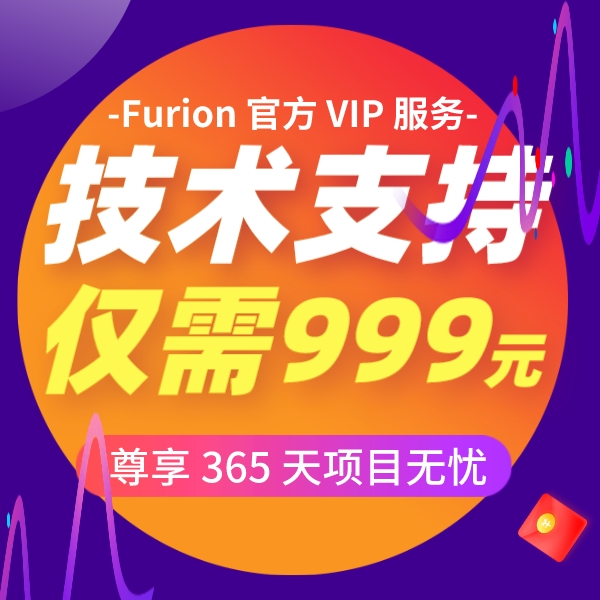
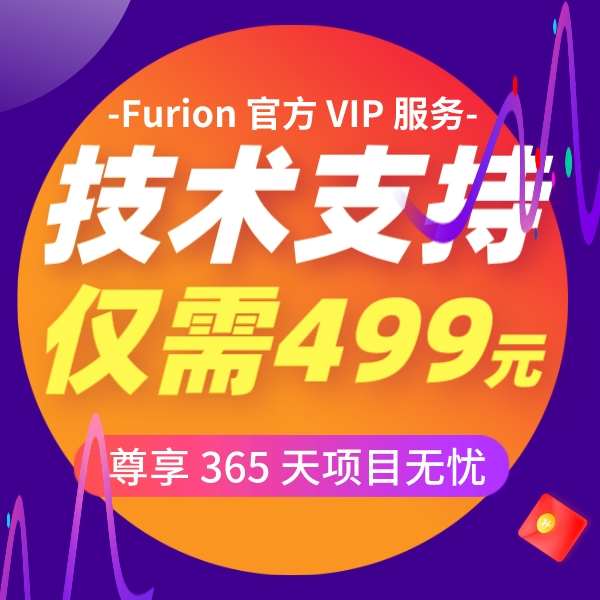
😊 通过 `Jenkins` 发布 `v4.9.1.4` 版本文档

diff --git a/handbook/docusaurus.config.js b/handbook/docusaurus.config.js
@@ -23,7 +23,7 @@ module.exports = {
     announcementBar: {
       id: "vip",
       content:
-        "⭐ 开通 VIP 服务仅需 <s>999 元</s>(<b>限时特价 699 元</b>)，尊享 365 天项目无忧 <a href='/docs/subscribe' style='background-color:rgb(199, 29, 36);color:#ffffff;padding:1px 10px;border-radius:3px;text-decoration:none;display:inline-block;margin:0 5px;font-size:12px;cursor:pointer;'>立即开通</a>⭐",
+        "⭐ 开通 VIP 服务仅需 499 元，尊享 365 天项目无忧 <a href='/docs/subscribe' style='background-color:rgb(199, 29, 36);color:#ffffff;padding:1px 10px;border-radius:3px;text-decoration:none;display:inline-block;margin:0 5px;font-size:12px;cursor:pointer;'>立即开通</a>⭐",
       backgroundColor: "#4623d9",
       textColor: "yellow",
       isCloseable: false,

diff --git a/handbook/src/pages/index.js b/handbook/src/pages/index.js
@@ -133,7 +133,7 @@ function Banner() {
                 title="VIP 服务"
               >
                 VIP 服务
-                <span className="furion-version">999元/年</span>
+                <span className="furion-version">499元/年</span>
               </Link>
             </Tooltip>
           </div>
@@ -227,7 +227,7 @@ function Gitee() {
             className={"furion-log-jiao" + (isDarkTheme ? " dark" : "")}
           ></div>
           <div className="furion-log-number">
-            <div style={{ color: "#1fd898" }}>11,470,422</div>
+            <div style={{ color: "#1fd898" }}>11,472,731</div>
             <span className={isDarkTheme ? " dark" : ""}>Downloads</span>
           </div>
         </div>

diff --git a/handbook/src/theme/DocRoot/Layout/Main/index.js b/handbook/src/theme/DocRoot/Layout/Main/index.js
@@ -72,8 +72,7 @@ function Notice() {
           🚀 Furion v4.9.1.4 版本已发布。
         </Link>
       </div>
-      ⭐ 开通 VIP 服务仅需 <s>999 元</s>(<b>限时特价 699 元</b>)，尊享 365
-      天项目无忧{" "}
+      ⭐ 开通 VIP 服务仅需 499 元，尊享 365 天项目无忧{" "}
       <Link to={useBaseUrl("/docs/subscribe")} className={styles.tip}>
         <Popover
           trigger="hover"

diff --git a/handbook/src/components/FloatBar.js b/handbook/src/components/FloatBar.js
@@ -27,7 +27,7 @@ export default function FloatBar() {
             <div style={{ flex: 1 }}>
               <div className={styles.itemTitle}>⭐ VIP 服务 ⭐</div>
               <div className={styles.itemDesc}>
-                仅需 999 元，尊享 365 天项目无忧
+                仅需 499 元，尊享 365 天项目无忧
               </div>
             </div>
             <div className={styles.jiantou}></div>

diff --git a/handbook/src/components/Vip.js b/handbook/src/components/Vip.js
@@ -49,7 +49,7 @@ export default function Vip({ style, closable = true }) {
       <Link
         to={useBaseUrl("docs/subscribe")}
         style={{ display: "block" }}
-        title="⭐ 开通 VIP 服务仅需 999 元，尊享 365 天项目无忧 ⭐"
+        title="⭐ 开通 VIP 服务仅需 499 元，尊享 365 天项目无忧 ⭐"
       >
         <img
           src={useBaseUrl("img/cmp-vip.jpeg")}

diff --git a/handbook/src/theme/DocItem/Footer/index.js b/handbook/src/theme/DocItem/Footer/index.js
@@ -121,7 +121,7 @@ export default function DocItemFooter() {
                   textDecoration: "underline",
                 }}
               >
-                开通 VIP 服务仅需 999 元，尊享 365 天项目无忧
+                开通 VIP 服务仅需 499 元，尊享 365 天项目无忧
               </Link>{" "}
               ⭐
             </div>

diff --git a/handbook/src/theme/Root.js b/handbook/src/theme/Root.js
@@ -141,7 +141,7 @@ function Root({ children }) {
             }}
             onClick={() => setDonate(false)}
           >
-            开通 VIP 服务仅需 999 元，尊享 365 天项目无忧
+            开通 VIP 服务仅需 499 元，尊享 365 天项目无忧
           </Link>{" "}
           ⭐
         </div>

diff --git a/handbook/src/components/PayContent.js b/handbook/src/components/PayContent.js
@@ -13,7 +13,7 @@ export function PayContent() {
           fontWeight: 500,
         }}
       >
-        限时特价 699 元/年
+        开通 VIP 服务仅需 499 元/年
       </div>
       <img
         src={useBaseUrl("img/cmp-donate.jpg")}
